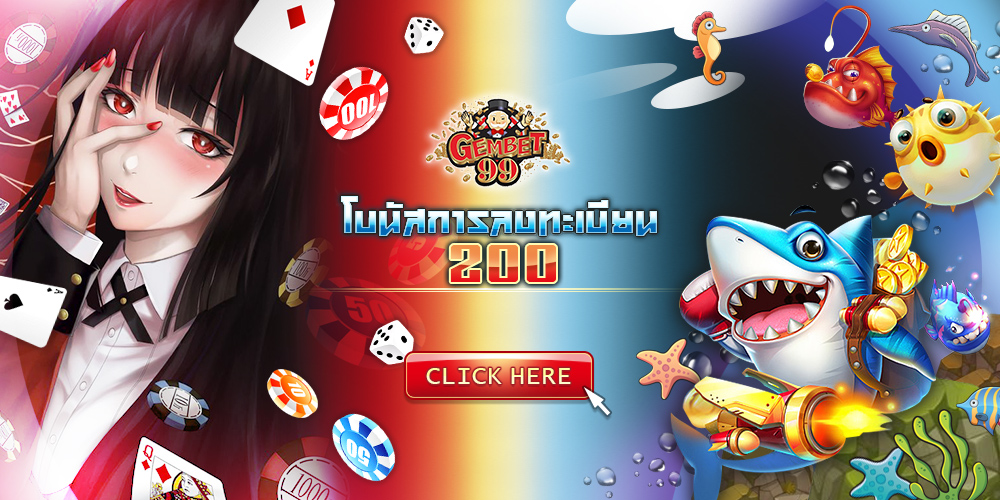
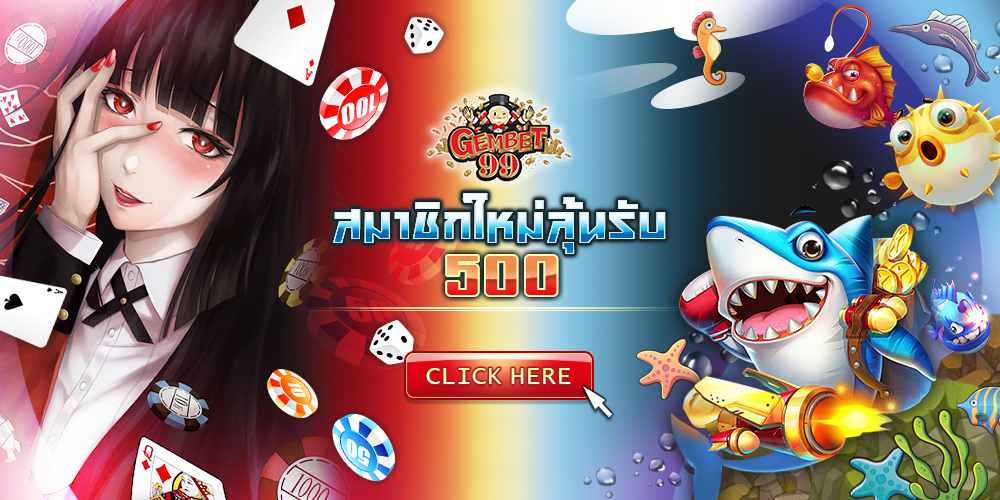
push

Changed region(s): [[0.31, 0.18, 0.682, 0.63], [0.589, 0.78, 0.62, 0.84]]

diff --git a/gb/index.html b/gb/index.html
@@ -74,8 +74,8 @@
           <img src="./img/header-bg.gif" alt="gb9gif" width="100%"/>
         </div>
         <div class="modal-footer">
-          <button type="button" class="btn btn-success" onclick="location.href='https://lihi1.com/OK9Zj/windyanimal'">เกมตกปลายิงทั้งหมดอยู่ที่นี่<br>
-          ลงทะเบียนฟรี 200 บาท<br></button>
+          <button type="button" class="btn btn-success" onclick="location.href='https://lihi1.com/OK9Zj/windyanimal'">สมาชิกใหม่ฝาก 50<br>
+          บาทรับโอกาสถอนทันที 500 บาท<br></button>
         </div>
       </div>
     </div>
@@ -109,7 +109,7 @@
             <img class="img-fluid" src="img/portfolio/00.jpg" alt="">
           </a>
           <div class="portfolio-caption">
-            <h4>เครดิตฟรี 200 บาท</h4>
+            <h4>บาทรับโอกาสถอนทันที 500 บาท</h4>
           </div>
         </div>
 
@@ -128,7 +128,7 @@
             <img class="img-fluid" src="img/portfolio/01.jpg" alt="">
           </a>
           <div class="portfolio-caption">
-	    <h4>ฝาก 100 รับ 200 *5</h4>  
+	    <h4>ฝาก 100 รับ 200 </h4>  
           </div>
         </div>
         
@@ -142,7 +142,7 @@
             <img class="img-fluid" src="img/portfolio/02.jpg" alt="">
           </a>
           <div class="portfolio-caption">
-            <h4>Deposit get free 150%, Max 1,500</h4>		  
+            	<h4>ฝาก 200 รับ 240</h4>	  
           </div>
         </div>
 
@@ -158,7 +158,8 @@
             <img class="img-fluid" src="img/portfolio/03.jpg" alt="">
           </a>
           <div class="portfolio-caption">
-            <h4>Deposit get free 150%, Max 2,000</h4>			  
+            
+		  <h4>ฝาก 300 รับ 660</h4>
           </div>
         </div>
 
@@ -172,7 +173,8 @@
             <img class="img-fluid" src="img/portfolio/04.jpg" alt="">
           </a>
           <div class="portfolio-caption">
-            <h4>Lucky draw</h4>		  
+            
+	    <h4>ฝาก 500 รับ 1200</h4>
           </div>
        </div> 	      
 	      
@@ -188,7 +190,7 @@
             <img class="img-fluid" src="img/portfolio/05.jpg" alt="">
           </a>
           <div class="portfolio-caption">
-            <h4>ชวนเพื่อนเล่นเกมรับโบนัสสูงสุด 10%</h4>
+            <h4>VIP กิจกรรมการถอนไม่ จำกัด</h4>
           </div>
        </div>    
 
@@ -201,7 +203,7 @@
   <!-- Portfolio Modals -->
 
 
-    <!-- Modal 1 -->
+    <!-- Modal  -->
   <div class="portfolio-modal modal fade" id="portfolioModal0" tabindex="-1" role="dialog" aria-hidden="true">
     <div class="modal-dialog">
       <div class="modal-content">
@@ -216,14 +218,13 @@
               <div class="modal-body">
                 <!-- Project Details Go Here -->
 		                <!-- Project Details Go Here -->
-                <h4 class="text-uppercase">Register get 200 free</h4>                
+                <h4 class="text-uppercase">บาทรับโอกาสถอนทันที 500 บาท</h4>                
                 <img class="img-fluid d-block mx-auto" src="img/portfolio/promotion/00.jpg">
                 <ul class="list-inline">
-		  <li>ทั้ง "Slot" และ "Live" สามารถใช้กิจกรรมนี้เพื่อรับรางวัล</li>	
-                  <li>สมัครสมาชิกใหม่รับเครดิตฟรี ทันที 200 บาท</li>
-                  <li>สมัครสมาชิกเว็ป Gembet99</li>
-		  <li>ทำเทิร์น  7,000  สามารถถอนได้สูงสุด 200 บาท</li>  
-                  <li>แจ้งแอดมินสุดสวยเพื่อรับโปรโมชั่น เครดิตฟรี 200</li>
+		<li>สมาชิกใหม่มีจำนวน จำกัด</li>	
+                <li>บาทรับโอกาสถอนทันที 500 บาท</li>
+		<li>โบนัสเกมฟรี 300 บาท</li>
+		<li>เพียงฝากเงิน 50 บาท</li>		
                 </ul> 
                 <a href="https://www.gembet99.com/promote/?pid=Googleads">
                 <button class="btn btn-primary" type="button">Join Promotion</button></a>
@@ -251,9 +252,8 @@
                <h4 class="text-uppercase">ฝาก 100 รับ 200</h4>                
                 <img class="img-fluid d-block mx-auto" src="img/portfolio/promotion/01.jpg">
                 <p>โบนัสเงินฝาก 200% โอกาสห้าประการ</p>
-	        <p>สมาชิกเว็ป Gembet99 ฝาก 100 บาท รับโบนัสทันที  200 บาท</p>
-	        <p>สามารถเข้าร่วมได้สูงสุดห้าครั้ง</p>	  
-	        <p>จำกัดค่ายเกม: SG,JILI,CQ9,FC</p>	      
+	        <p>สามารถรับโบนัสได้วันละครั้ง</p>
+	        <p>คอลเลกชันไม่ จำกัด</p>	      
                 <a href="https://www.gembet99.com/?pid=Googleads">
                 <button class="btn btn-primary" type="button">Join Promotion</button></a>
               </div>
@@ -279,11 +279,11 @@
               <div class="modal-body">
                 <!-- Project Details Go Here -->
 		      
-                <h4 class="text-uppercase">first deposit get free 150%, Max 1,500</h4>		      
+                <h4 class="text-uppercase">ฝาก 200 รับ 420</h4>		      
                 <img class="img-fluid d-block mx-auto" src="img/portfolio/promotion/02.jpg">
-		<p>ทั้ง "Slot" และ "Live" สามารถใช้กิจกรรมนี้เพื่อรับรางวัล</p>      
-                <p>สมาชิกใหม่ฝากครั้งแรกรับโบนัส 150%</p>
-                <p>โบนัสสูงสุด 1500 หยวน!!</p>
+                <p>โบนัสเงินฝาก 210% โอกาสห้าประการ</p>
+	        <p>สามารถรับโบนัสได้วันละครั้ง</p>
+	        <p>คอลเลกชันไม่ จำกัด</p>
                 <a href="https://www.gembet99.com/promote/?pid=Googleads">
                 <button class="btn btn-primary" type="button">Join Promotion</button></a>
               </div>
@@ -308,11 +308,11 @@
             <div class="col-lg-8 mx-auto">
               <div class="modal-body">
                 <!-- Project Details Go Here -->
-                <h4 class="text-uppercase">ฝากตอนนี้รับโบนัส 100%!!</h4>		      
+                <h4 class="text-uppercase">ฝาก 300 รับ 660</h4>		      
                 <img class="img-fluid d-block mx-auto" src="img/portfolio/03.jpg">
-		<p>ทั้ง "Slot" และ "Live" สามารถใช้กิจกรรมนี้เพื่อรับรางวัล</p>	      
-                <p>ฝากตอนนี้รับโบนัส 100%!!</p>
-                <p>โบนัสสูงสุด 2,000 หยวน!!</p>                
+                <p>โบนัสเงินฝาก 220% โอกาสห้าประการ</p>
+	        <p>สามารถรับโบนัสได้วันละครั้ง</p>
+	        <p>คอลเลกชันไม่ จำกัด</p>               
                 <a href="https://www.gembet99.com/promote/?pid=Googleads">
                 <button class="btn btn-primary" type="button">Join Promotion</button></a>
               </div>
@@ -324,7 +324,7 @@
   </div>
 
 
-
+	
   <!-- Modal 4 -->
   <div class="portfolio-modal modal fade" id="portfolioModal4" tabindex="-1" role="dialog" aria-hidden="true">
     <div class="modal-dialog">
@@ -339,13 +339,12 @@
             <div class="col-lg-8 mx-auto">
               <div class="modal-body">
                 <!-- Project Details Go Here -->
-                <h4 class="text-uppercase">VIP Lucky draw</h4>               
+                <h4 class="text-uppercase">ฝาก 500 รับ 1200</h4>               
                 <img class="img-fluid d-block mx-auto" src="img/portfolio/04.jpg">
-		<p>ดำเนินการต่อเพื่อตอบแทนลูกค้า</p>      
-	        <p>VIP !! อีเว้นท์สุดพิเศษ</p>
-                <p>รับโบนัสสูงถึง 1,200 หยวน</p>   
-            
-                <a href="https://www.gembet99.com/promote/15/?pid=Googleads">
+                <p>โบนัสเงินฝาก 240% โอกาสห้าประการ</p>
+	        <p>สามารถรับโบนัสได้วันละครั้ง</p>
+	        <p>คอลเลกชันไม่ จำกัด</p>              
+                <a href="https://www.gembet99.com/promote/?pid=Googleads">
                 <button class="btn btn-primary" type="button">Join Promotion</button></a>
               </div>
             </div>
@@ -353,11 +352,10 @@
         </div>
       </div>
     </div>
-  </div>
-
-
+  </div>	
 	
 	
+
   <!-- Modal 5 -->
   <div class="portfolio-modal modal fade" id="portfolioModal5" tabindex="-1" role="dialog" aria-hidden="true">
     <div class="modal-dialog">
@@ -372,11 +370,13 @@
             <div class="col-lg-8 mx-auto">
               <div class="modal-body">
                 <!-- Project Details Go Here -->
-                <h4 class="text-uppercase">ชวนเพื่อนเล่นเกมรับโบนัสสูงสุด</h4>               
+                <h4 class="text-uppercase">VIP กิจกรรมการถอนไม่ จำกัด</h4>               
                 <img class="img-fluid d-block mx-auto" src="img/portfolio/05.jpg">
-                <p>โบนัสสูงสุดไม่ จำกัด!!!!!!!!!!</p>
-                <p>ฝากตอนนี้รับโบนัส 10%!!</p>             
-                <a href="https://www.gembet99.com/promote/?pid=Googleads">
+		<p>เฉพาะกิจกรรม VIP ใช้งานได้ไม่ จำกัด</p>        
+		<p>กิจกรรมการถอนไม่ จำกัด</p>      
+	        <p>ฝากขั้นต่ำ 1500</p>
+                <p>รับโบนัสพิเศษ 20%</p>   
+                <a href="https://www.gembet99.com/promote/15/?pid=Googleads">
                 <button class="btn btn-primary" type="button">Join Promotion</button></a>
               </div>
             </div>
@@ -384,7 +384,12 @@
         </div>
       </div>
     </div>
-  </div>	
+  </div>
+
+
+	
+	
+	
 	
 	
 	
